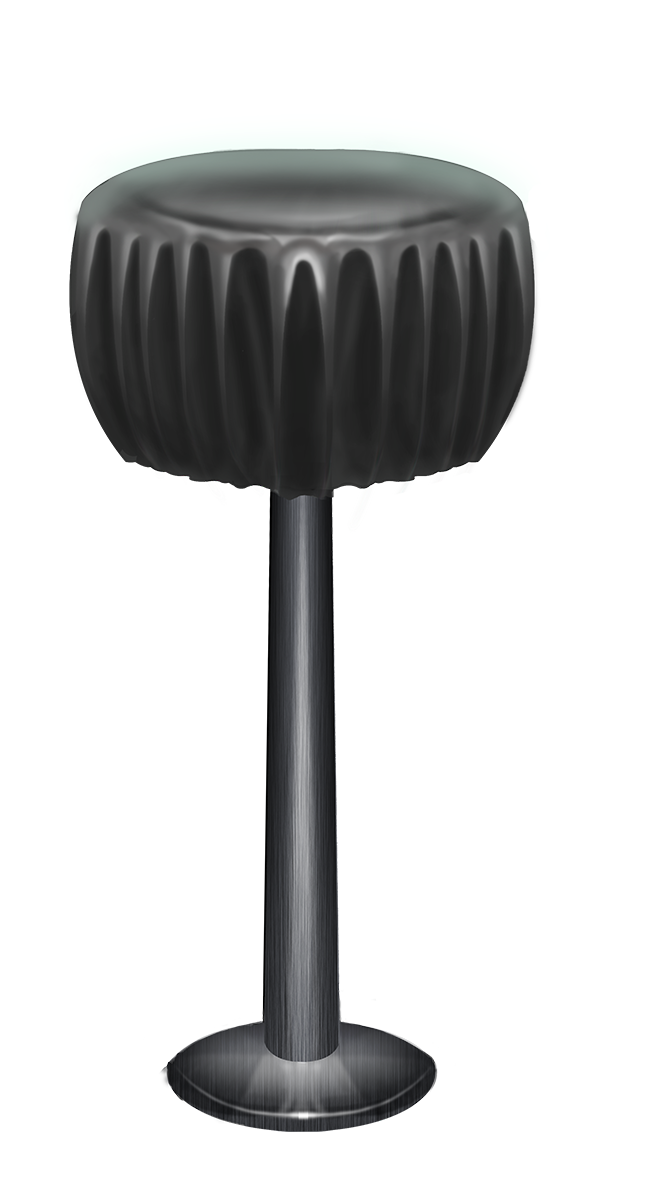
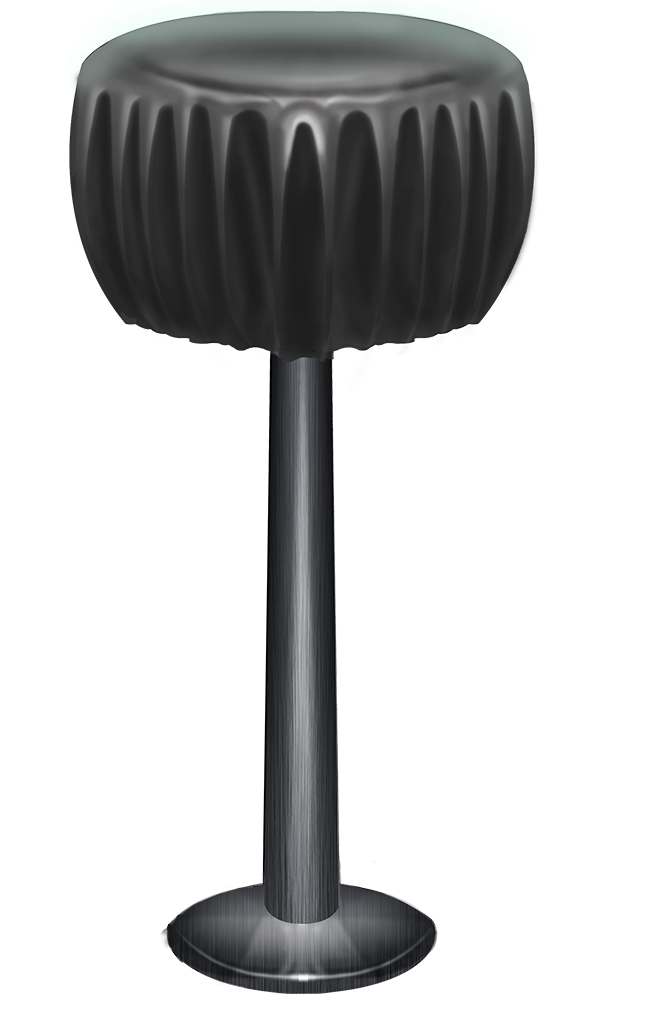
initial animation

Changed region(s): [[0.0916, 0.0, 0.8244, 0.4301], [0.2443, 0.8295, 0.6718, 1.0]]

diff --git a/WebContent/stylesheet/style.css b/WebContent/stylesheet/style.css
@@ -12,11 +12,13 @@
 
 #header{
 	width:100%;
+	
 }
 #logo{
 	position:absolute;
 	top:50px;
 	left:5%;
+	z-index:50;
 }
 #logo img{
 	width:400px;
@@ -24,47 +26,90 @@
 }
 
 #slide{
-	width:1800px;
-	height:auto;
-	background:#fff;
-	margin:auto;
-	background-image:url('../images/wall.jpg');
+	position:relative;
+	
+	width:100%;
+	min-width:1400px;
+	height:1100px;
+	background-image:url('../images/wall.png');
+	background-size:cover;
 }
 
-#slide img{
-	width:1800px;
-	height:auto;
-	background:#000;
+#slide > .ground{
+	position:absolute;
+	bottom:-5px;
 }
 
+#slide > .stool{
+	width:9%;
+	height:auto;
+}
+
+
+#slide > #bar{
+	left:17.5%;
+	width:65%;
+	height:auto;
+}
+
+#slide > #stool1{
+	left:21%;
+}
+#slide > #stool2{
+	left:31%;
+}
+#slide > #stool3{
+	left:41%;
+}
+#slide > #stool4{
+	left:51%;
+}
+#slide > #stool5{
+	left:61%;
+}
+#slide > #stool6{
+	left:71%;
+}
+
+#control{
+	position:absolute;
+	width:100%;
+	top:50%;
+}
+#left{
+	float:left;
+}
+#right{
+	float:right;
+}
 #nav{
-	width:1800px;
+	width:100%;
 	height:150px;
 	background:#000;
-	margin:auto;
+	z-index:49;
 }
 
 #content{
 	display:none;
+	top:150px;
 }
 
 .box{
 	width:100%;
-	height:780px;
-	margin:auto;
-	
+	height:780px;	
 }
 
 #box1{
+	opacity:0.6;
 	background-image:url('../images/img1.jpg');
 }
 
 #box2{
-	backgournd-image:url('../images/chalk.png');
+	background-image:url('../images/chalk.png');
 }
 #box3{
 	background:#bdc7af;
 }
 #box4{
-	backgournd-image:url('../images/map.jpg');
+	background-image:url('../images/map.jpg');
 }

diff --git a/WebContent/script/mint.js b/WebContent/script/mint.js
@@ -45,7 +45,52 @@ function zoomblur(){
 
 $(function(){
 	$("#up").bind("click",function(){
-		$("#slide").slideUp();
+		if($("#slide").css("display") == "none"){
+			$("#slide").slideDown(function(){
+				$("#up").text("up");
+				$("#content").fadeOut();
+				$("#logo").css("position","absolute");
+				$("#nav").css("position","relative");
+				$("#nav").css({"opacity":"1"});
+			});
+		}
+		else{
+			$("#slide").slideUp(function(){
+				$("#up").text("down");
+				$("#content").slideDown();
+				$("#logo").css("position","fixed");
+				$("#nav").css({"position":"fixed"});
+				$("#nav").animate({"opacity":"0.75"},500);
+			});
+		}
 	});
 }
 );
+
+$(function(){
+	$("#right")
+	.mouseenter(function(){
+		$(".stool").animate({left:"-=5%"},500);
+		$("#bar").animate({left:"-=3%"},400);
+		$("#slide").animate({"background-position":"+=3%"},300)
+	})
+	.mouseleave(function(){
+		$(".stool").animate({left:"+=5%"},500);
+		$("#bar").animate({left:"+=3%"},400);
+		$("#slide").animate({"background-position":"-=3%"},300)
+	});
+});
+
+$(function(){
+	$("#left")
+	.mouseenter(function(){
+		$(".stool").animate({left:"+=5%"},500);
+		$("#bar").animate({left:"+=3%"},400);
+		$("#slide").animate({"background-position":"-=3%"},300)
+	})
+	.mouseleave(function(){
+		$(".stool").animate({left:"-=5%"},500);
+		$("#bar").animate({left:"-=3%"},400);
+		$("#slide").animate({"background-position":"+=3%"},300)
+	});
+});

diff --git a/WebContent/home.html b/WebContent/home.html
@@ -31,7 +31,17 @@
 		<img style="opacity:1;"src="images/logo.png"/>
 	</span>
 	<div id="slide">
-		<img src="images/Bar.jpg" /> 
+		<img id="bar" class="ground" src="images/bar.png"/>
+		<img id="stool1" class="ground stool" src="images/stool.png"/>
+		<img id="stool2" class="ground stool" src="images/stool.png"/>
+		<img id="stool3" class="ground stool" src="images/stool.png"/>
+		<img id="stool4" class="ground stool" src="images/stool.png"/>
+		<img id="stool5" class="ground stool" src="images/stool.png"/>
+		<img id="stool6" class="ground stool" src="images/stool.png"/>
+		<div id="control">
+			<a id="left">left</a>
+			<a id="right">right</a>
+		</div>
 	</div>
 	<div id="nav">
 		<a id="up" style="color:#fff">up</a>
